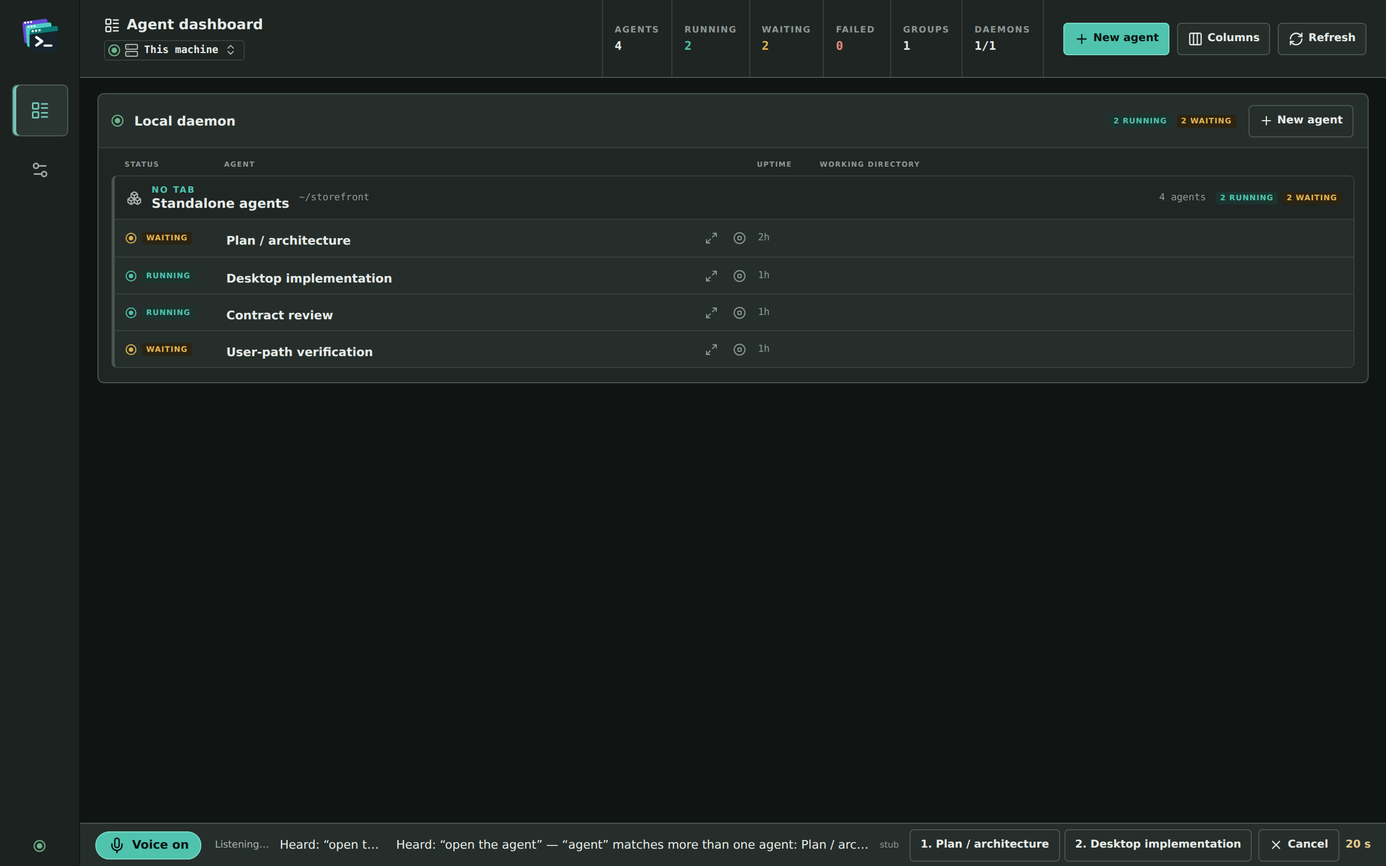
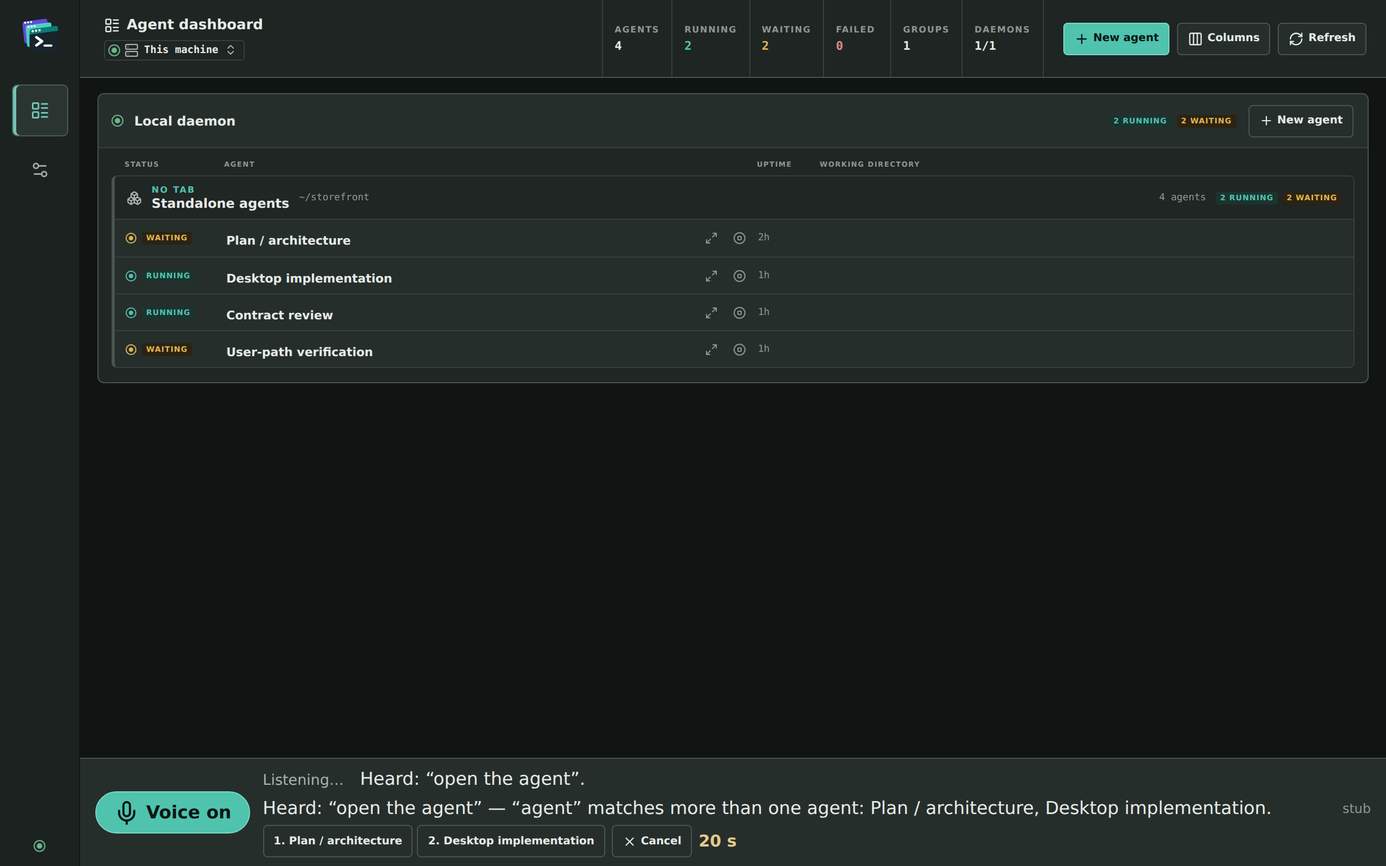
docs(voice): document the non-speech guard, larger row and send nudge
User docs say what the user now sees (noise is ignored, the row is
larger while voice is on, the send reminder in typing mode) and add a
troubleshooting row for speech taken as noise. Developer docs record the
whisper confidence guard and its measurements, the silent-outcome drop,
the measured-height reservation and the nudge. Changelog fragments and
PRD #1260's work log updated; the two voice screenshots regenerated.

Changed region(s): [[0.0312, 0.875, 1.0, 1.0]]

diff --git a/docs/develop/desktop-gui.md b/docs/develop/desktop-gui.md
@@ -1361,7 +1361,9 @@ Three things it is not, each stated because the unqualified version would be wro
 
 **The FLOOR was absolute until #802's second real-microphone report, and an absolute floor cannot work across devices.** `SPEECH_FLOOR` was an RMS of 600 out of `i16::MAX`, about -35 dBFS, picked from where near-field speech and room tone sit on a device whose gain nobody had measured. The owner supplied the falsification with a number: *"60 ms of speech inside the loudest 200 ms, where 120 ms is needed"* — the **density** branch, not the level one, so his peak did clear 600 while only 30% of his densest window did. In the loudest part of a word a correctly-set floor sees near-continuous energy; his saw a third. **Lowering the constant was the obvious repair and it is the wrong one**, because a microphone is a gain stage: 600 is too high for that device and too low for a hotter one, where room tone alone clears it, every frame reads as speech and the hallucinations this gate exists to stop come straight back. Any number fitted to one report is fitted to one microphone. So the rule is now **relative to the utterance's own noise floor** — `SpeechDetector` takes the room as the quietest 20 ms in the last `NOISE_WINDOW` (1 s, the standard minimum-statistics estimator, which works because every real signal visits its own floor while stationary noise simply sits there), and a frame counts as speech at `SPEECH_MARGIN` (3x, a little over 9 dB SNR) above it. The level cancels: the same voice on a quiet input and a loud one gets the same verdict, with nothing stored per device and no setup step, because a microphone always delivers its own room. **One absolute survives and it is deliberately not a speech threshold**: `SILENCE_RMS` (64, about -54 dBFS) floors the *room estimate*, not the frame, so the smallest bar a frame can face is `64 x 3` = 192. Flooring the frame instead would be a worse rule — a buffer holding a stretch of digital zero would have its room estimated at zero for a whole second, and ordinary room tone around 180 would read as speech for that second, which is precisely the near-silence a Whisper-family model answers with a training artefact. **A uniform buffer is refused, and that is the design rather than a gap**: a signal at one level for its whole length has a ratio of one between its loudest and quietest moments, so no relative rule can tell a held tone at speech level from a fan at speech level — the information is not in the buffer. Refusing is the safe direction and the physical one, since speech is modulated at the syllable rate and is never uniform. The visible consequence is that **every fixture in that module's tests carries room tone**, because a bare square wave is a signal no microphone produces; `voice_capture_a_low_gain_voice_passes_where_the_absolute_floor_refused_it` and `voice_capture_a_loud_room_is_refused_where_the_absolute_floor_admitted_it` are the pair that states the argument, each asserting first that the old absolute rule got it wrong and then that this one gets it right.
 
-**The refusal is its own outcome and it now carries the whole measurement.** `TranscriptionOutcome::Silent` is a fourth kind beside `heard`, `not_configured` and `failed`, and it used to carry no `detail` "because there is nothing to diagnose" — which was true of the quiet-room case it was written for and false of the one that mattered. A user who *did* speak reads that row, so it has to separate the three things it can mean, and it branches on whether **any** frame counted as speech. If none did, nothing in the buffer would have passed at any length — *Too quiet to transcribe — the loudest moment reached 410 against a room at 180, where speech has to reach 540. Move closer or turn the input up; still listening.* If some did and `voiced` is still short, the audio was speech and there was not enough of it — *I did not hear enough to transcribe — 60 ms of speech inside the loudest 200 ms, where 120 ms is needed; the loudest moment reached 820 against a room at 95, where speech has to reach 285. Say that again; still listening.* Neither reads as a failure and neither blames the device, which is the rule that has not changed. **Both branches now carry all three numbers, and the density one did not**: PRD #802's owner hit exactly that branch, got a duration and no level, and the fact that mattered most — that his peak cleared the old absolute floor while two thirds of his densest window did not — was not in the sentence. Learning it cost a round trip to the person holding the microphone, and it is what falsified the constant. So every refusal now states the comparison the rule made, in the rule's own terms, and **that is also the field diagnostic**: one utterance says whether the input is quiet, the room is loud, or the gate is strict, which is the only calibration available to a rule no tier in this repository can open a device to check.
+**The refusal is its own outcome; its measurement is in `detail`, and no surface shows it while listening.** `TranscriptionOutcome::Silent` is a fourth kind beside `heard`, `not_configured` and `failed`. It branches on whether **any** frame counted as speech: if none did, nothing in the buffer would have passed at any length (`detail`: *too quiet — the loudest moment reached 410 against a room at 180, where speech has to reach 540*); if some did and `voiced` is still short, there was not enough of it (*only 60 ms of speech inside the loudest 200 ms, where 120 ms is needed — the loudest moment reached 820 against a room at 95, where speech has to reach 285*). **Both details carry all three numbers** — the loudest moment, the room it was judged against and the bar that produced — because PRD #802's owner once hit the density branch, got a duration and no level, and the fact that falsified the old absolute floor (his peak cleared it while two thirds of his densest window did not) cost a round trip to learn. That is still the field diagnostic for a rule no tier here can open a device to check, and it is read from the `detail` of the `desktop_voice_stop` reply (the webview's devtools show it), not from the screen. **The numbers used to be in the sentence too, and PR #1451's hand test took them out.** With voice on, the user typed on the keyboard; every burst of keys ended a segment, and each one put *"I did not hear enough to transcribe — 60 ms of speech inside the loudest 200 ms, where 120 ms is needed; the loudest moment reached 858 against a room at 64, where speech has to reach 192. Say that again; still listening."* over the report they were reading. So `VoiceControlPanel`'s `takeUtterance` now drops a `silent` outcome **without a word** — no sentence, and the last report stays, because `forget()` runs only once a segment with words in it arrives — and a recording that ran to the 30 s cap with `CaptureStatus::speech` false is cancelled quietly rather than reported as *ran to the 30 s limit* (`discardCapped(true)`). The `sentence` is now plain words for any surface that does report one — `NOTHING_HEARD` (*I could not make out any words. Say that again; still listening.*) and `TOO_QUIET` — and none is shown today: there is no press-to-talk activation in the app, which is where a user who meant to speak would want to hear it. The cost is the case the numbers were added for: a quiet speaker whose words the gate refuses now sees nothing happen, and the user docs' troubleshooting table names that symptom. Neither sentence reads as a failure or blames the device, which is the rule that has not changed.
+
+**The model's own no-speech verdict is a second check, after the gate** (PR #1451). The audio gate is a level-and-density heuristic, and non-speech clears it: measured on 2026-10-01, thirty seconds of synthetic typing reaches the 120 ms density once and passes, and so does a quiet room with one 250 ms burst in it. Whatever came back was then trusted whole, which is how the maintainer, in typing mode on whisper-1, got *"Go to Beadaholique.com for all of your beading supply needs! Thank you."* typed into an agent's prompt — the known Whisper artefact on non-speech. So a whisper-family model (any model id containing `whisper`: `whisper-1`, the local `faster-whisper` builds) is asked for `response_format=verbose_json` (`response_format_for`), and `parse_response` drops every segment whose `no_speech_prob` exceeds `NO_SPEECH_LIMIT` (0.6, openai/whisper's own default `no_speech_threshold`); when none is dropped `text` is taken verbatim, so speech reaches the pipeline byte for byte as before. Then `handle_audio` treats a transcript with no letter or digit left — empty, or whisper's `... ...` — as `Silent`, not `Heard`. **The reference rule's other half is deliberately not used**: openai/whisper keeps a no-speech segment when `avg_logprob > -1.0`, and whisper-1's reply to the quiet room with a burst was `no_speech_prob` 0.918 with `avg_logprob` -0.515, so the combined rule keeps the artefact. **What the 0.6 is measured against** (real calls, 2026-10-01): non-speech scored 0.918–0.976 on whisper-1 and 0.896 on `faster-whisper-tiny.en`; speech at a peak of 400 and 250 against a room at 64 — the quiet end of what the gate passes — scored 0.089–0.202 on whisper-1 and 0.166–0.377 on the local model, and was heard word for word end to end through `HttpTranscriber`. That speech was synthesised (OpenAI TTS, attenuated, room tone added); **a real quiet speaker on a real microphone is the unmeasured case**, and the margin to 0.6 is what is betting on it. Other models get plain `json`, because OpenAI's `gpt-4o-transcribe` family refuses `verbose_json` with a 400, and they get no segment guard — only the no-words check. **Not changed, and why:** the audio gate was not tightened against impulsive noise. A per-frame crest-factor test would separate a synthetic click from a synthetic vowel, but nothing here can measure it against a real keyboard through a real microphone, and plosives make real speech impulsive too, so it would risk refusing quiet commands for a case the model's verdict already covers. No list of known artefact phrases exists, for `MIN_SPEECH`'s reason. **Known gap:** the local speech container (`speaches 0.9.0-rc.3`) answers a long segment of pure non-speech with a `500`, which renders as *Could not turn that into text*; that predates this change, happens with plain `json` too, and affects only a non-speech segment that cleared the gate on the local backend.
 
 **Releasing the device is blocking work and is done off the lock.** `AudioStream::drop` joins the device thread, so it is as slow as the platform's teardown. All three paths that release one — `stop`, `cancel` and the length cap's substitution — move the stream out from under the session mutex and drop it after the guard, and all three Tauri commands hand the call to `spawn_blocking`, the treatment the device *open* already had. Holding the mutex across a driver teardown parked every concurrent `status`, `cancel` and `start` behind it, and doing it on a runtime task parked a worker as well. The same rule covers the keychain, which is why `secrets::load_off_runtime` exists: `SecretStore::load` may put an unlock prompt on screen, and both voice backends read it from inside an `async fn`.
 
@@ -1501,6 +1503,8 @@ They live in `voice/dictation.rs`, ahead of the resolver, and linkage-check rule
 **Leaving the mode is reported in the panel's own sentence** (`dictationStopped`, `dictationRefused`, `VOICE_NOT_DICTATING`), not the row's `report`, because only the panel knows whose prompt it was typing to — Rust keeps no memory between utterances. Those join the frontend-written sentences listed under *It renders sentences; it never composes one* below, for the countdown's reason.
 
 **The 30-second cap types rather than discards while the mode is on** (`VOICE_CAP_TYPED`). `VOICE_CAP_DISCARDED`'s reasoning is about a one-to-four-word command; a dictated paragraph is not one, and throwing away 30 seconds of it is the worst outcome available. The cost is one Speech call per 30 s of continuous speech, spent on the user's own words.
+
+**After a pause with words unsent, the send instruction is highlighted** (PR #1451; `VOICE_SEND_NUDGE_MS`, 4 s). The hand test found users dictating, falling silent and waiting for something to happen; an automatic send was ruled out, so this is a nudge and never sends. The typed write's success sets `unsent` and starts the clock; the poll takes the highlight down whenever `CaptureStatus::speech` is true and restarts the clock in a later recording where it is false (so it returns after a pause that followed speech which typed nothing); `submitAgentPrompt` (*send it*), a capture-phase `Enter` on the window (the user's own send, which lands in the terminal first) and every entry to or exit from the mode clear it for good. Four seconds is longer than the gap between two dictated sentences — the 800 ms `SILENCE_HOLD`, about a second to transcribe and type, then the next sentence starting — and short enough to be noticed by someone waiting. It is styling on the existing words (`.voice-send-hint[data-nudge="on"]`), so the status reads exactly the same lit or not, and the pulse runs twice and honours `prefers-reduced-motion`.
 
 **Not built: an overlapped capture cycle.** The cycle is still serial — the microphone closes while the last segment is transcribed — so words said in that gap are not captured, and in a mode that is a gap in the middle of a prompt. PRD #1260's M1 was to measure that loss before deciding whether to reopen the microphone during transcription; **it was not measured**, because the unit that built the mode had no microphone, so the overlapped cycle was deferred and the measurement is the manual walk's item 12b below. Silence artefacts typed into the prompt belong to the same walk: in `Idle` a Whisper-family artefact on near-silence usually becomes a no-match, while in the mode it is typed — visibly and unsent, so recoverable, but a new consequence for an existing weakness.
 
@@ -1696,7 +1700,9 @@ That sentence used to be written one quantifier wider — *every unknown resolve
 
 **The voice surface is a PEER of the agent pane, not background, and it took an exemption in the modal fence to make that true.** M6 shipped with the opposite: while a pane is open `useInertBackground` marked every element that is not one of its ancestors `inert`, and the voice surface is the screen's sibling, so it was marked with the rest of the background. `inert` removes an element from hit testing as well as from the tab order, so the trigger was not merely untabbable but unclickable — measured in the browser tier, where the click was intercepted by the pane's own footer — and `close_agent_view` — the row that then owned "close this" on the agent screen, and the only one whose `screens` column was `["agent"]` — could not be spoken in a shipped build. (That row has since folded into `close`, which is callable everywhere; what the exemption now keeps reachable on that screen is the whole dictation pair as well.) The second of the two fixes named here was taken: the hook now skips elements carrying `VOICE_PEER_PROPS`, which the trigger and its report spread, and nothing else. It is an allow-list of one marker rather than a rule about roles or dialogs, so a second peer has to be exempted there deliberately. **The exempt elements are no longer a dialog and the exemption did not widen when they stopped being one** — nor when the surface became a reserved row and the count went from two marked elements to **one**. That is the exemption narrowing rather than moving: the row is one marked sibling holding the trigger and the report, so the walk skips the same subtree it skipped before, and the Undo inside the report is still exempt because it is a control. What the fence still guarantees is unchanged for everything else, the `DeckSelector` above all, and `AgentPaneDeckIdentity.test.tsx` states it as an equality against that one trigger rather than as an emptiness — so any *other* control escaping an open pane is still a failure.
 
-**The surface is ONE RESERVED ROW at the bottom of the window, and that is a layout decision the product owner made after driving the real app.** Until PR #1163's review round the trigger and the report were two independently fixed boxes at z-index 90, the report stacked above the button and growing upward as it filled — so it was drawn over whatever was beneath it, including over the enlarged agent pane, which is the one place the user is actually working. Moving the boxes buys a different collision rather than none: a floating box's height is its content's, and no other element can set room aside for something whose size it cannot know. A row can. `--voice-row-height` (40px) is the contract, and every surface that would otherwise reach the window's bottom edge subtracts it — `.deck-main` on both screens, `.agent-pane-overlay`, `.reader-overlay`, `.evidence-drawer` and `.toast`, each marked *voice row* at its own rule. The row is z-index **95**: above the agent pane (90) and the reader overlay (80), below `.dialog-backdrop` (100). Two exclusions are deliberate rather than missed. A **modal dialog or sheet still covers the row**, which is correct — the voice surface is not exempted from `useInertBackground` for those the way it is for the agent pane, and shrinking their backdrops would leave a control clickable underneath a window-covering modal. And the **rail** is not on the list because it never overlaps: at desktop widths the row starts at the rail's right edge, and at `max-width: 680px`, where the rail becomes a 54px bottom bar, `--bottom-rail-height` lifts the row onto it. The agent pane keeps `inset: 0` — a modal scrim should cover the window — and it is its *content* box that stops above the row, via `padding-bottom`. The row's last report **persists** until the next utterance replaces it, which is now a decision rather than something inherited from the floating card: the space is reserved whether or not it holds anything, the pipeline goes straight back to listening, and a sentence that faded on a timer would be gone before a user who glanced away came back. `voice-control.spec.ts` asserts the geometry in both engines, including `elementFromPoint` at the row's own centre — a box comparison proves the pane's content stops above the row, and only a hit test proves a click there reaches the row rather than the scrim.
+**The surface is ONE RESERVED ROW at the bottom of the window, and that is a layout decision the product owner made after driving the real app.** Until PR #1163's review round the trigger and the report were two independently fixed boxes at z-index 90, the report stacked above the button and growing upward as it filled — so it was drawn over whatever was beneath it, including over the enlarged agent pane, which is the one place the user is actually working. Moving the boxes buys a different collision rather than none: a floating box's height is its content's, and no other element can set room aside for something whose size it cannot know. A row can. `--voice-row-height` (40px at rest) is the contract, and every surface that would otherwise reach the window's bottom edge subtracts it — `.deck-main` on both screens, `.agent-pane-overlay`, `.reader-overlay`, `.evidence-drawer` and `.toast`, each marked *voice row* at its own rule. The row is z-index **95**: above the agent pane (90) and the reader overlay (80), below `.dialog-backdrop` (100). Two exclusions are deliberate rather than missed. A **modal dialog or sheet still covers the row**, which is correct — the voice surface is not exempted from `useInertBackground` for those the way it is for the agent pane, and shrinking their backdrops would leave a control clickable underneath a window-covering modal. And the **rail** is not on the list because it never overlaps: at desktop widths the row starts at the rail's right edge, and at `max-width: 680px`, where the rail becomes a 54px bottom bar, `--bottom-rail-height` lifts the row onto it. The agent pane keeps `inset: 0` — a modal scrim should cover the window — and it is its *content* box that stops above the row, via `padding-bottom`. The row's last report **persists** until the next utterance replaces it, which is now a decision rather than something inherited from the floating card: the space is reserved whether or not it holds anything, the pipeline goes straight back to listening, and a sentence that faded on a timer would be gone before a user who glanced away came back. `voice-control.spec.ts` asserts the geometry in both engines, including `elementFromPoint` at the row's own centre — a box comparison proves the pane's content stops above the row, and only a hit test proves a click there reaches the row rather than the scrim.
+
+**While voice is on, the row is half as large again and wraps** (PR #1451, so it can be read from the keyboard). `.voice-row[data-voice="on"]` sets every size in the row to 1.5× its resting value — the report's 11px to 16.5px, the trigger's label the same — with a least height of `--voice-row-height-on` (60px), and turns elision off: at a narrow window the larger text would otherwise lose most of a sentence to the ellipsis. That makes the row's height its content's, which is the exact property the reservation was built to avoid, so the contract moves with it rather than breaking: while voice is on, `VoiceControlPanel` measures the row in a layout effect and with a `ResizeObserver`, writes the height into `--voice-row-height` on the document root (which is also where `--voice-reserved` is computed, so both follow), and removes the inline value when voice turns off, back to the stylesheet's 40px. No surface had to change. `voice-control.spec.ts` asserts the 1.5× sizes and the reservation tracking the measured height, and, at a 420px-wide window in typing mode, that the status wraps onto more lines, is not clipped, stays inside the row, and that the enlarged agent still stops above the taller row; `voice-commands.spec.ts`'s empty-state check now pins the hint to one line of the *on* height rather than the resting one.
 
 **The `aria-modal` question went away with the dialog rather than being answered.** The exemption had made the voice dialog's own `aria-modal="true"` a false claim — a dialog that deliberately coexists with another interactive dialog, and that inerts nothing itself, is not modal in the ARIA sense — and the correction at the time was to state `aria-modal="false"` and trap no focus. There is now no dialog at all: a button and a `role="status"` live region, which claim no modality, take no focus and trap none, so nothing has to be stated. The live region is mounted before any sentence arrives, which is what makes the announcement reliable, and the card inside it is what appears and disappears. The agent pane's own `aria-modal="true"` is untouched: it genuinely inerts everything but one named peer, which is the ordinary shape of a modal with a status region beside it.
 
@@ -1917,7 +1923,7 @@ The three tiers between them drive the surface in jsdom, the surface in two real
     Finally the escape that matters most: dictate a sentence and press the **Voice button** during the countdown — the send must be called off with the text left in the prompt. That is the one step of this walk that checks the feature is recoverable rather than merely working. And say `type run the tests` once from the **deck**, with no pane open, to confirm you get *typing to an agent needs that agent's pane open* rather than words going somewhere you cannot see.
 12b. **The typing mode against a live agent (PRD #1260), which no automated tier reaches** — no tier has a microphone or a transcript-injection seam. Pick an agent whose pane **accepts input**, open it, and say `type on`. Confirm **Typing to** *agent* appears in two places — on the pane's top edge and beside the Voice button, with *Say “type off” to stop, “send it” to send.* — and a **Stop typing** button in the voice row. Dictate three sentences as separate utterances and confirm each lands **whole** in the prompt (a sentence starting with `type fix the bug` types all four words), in order, and **nothing is sent**: no countdown appears. Say `send it` and confirm the prompt is submitted at once and the row says typing is still on; dictate a second prompt the same way.
 
-    Then the two measurements PRD #1260's M1 left UNVERIFIED, which decide whether the overlapped capture cycle is built. **A long pause:** dictate a sentence, pause for two or three seconds mid-thought, carry on, and compare what landed with what you said — **record every word lost** between the two segments, against both the local and the hosted Speech backends. Then stay silent for ten seconds with the mode on and **record anything typed** that you did not say (a transcription artefact). **Thirty seconds of continuous speech:** read a paragraph aloud with no pause; at 30 s the report must say it ran to the limit **and the text must be typed**, not discarded; note what, if anything, was lost across the cut. Put the numbers in PRD #1260's Work Log.
+    Then the two measurements PRD #1260's M1 left UNVERIFIED, which decide whether the overlapped capture cycle is built. **A long pause:** dictate a sentence, pause for two or three seconds mid-thought, carry on, and compare what landed with what you said — **record every word lost** between the two segments, against both the local and the hosted Speech backends. Then stay silent for ten seconds with the mode on and **record anything typed** that you did not say (a transcription artefact); then type on the keyboard for ten seconds without speaking, and confirm nothing is typed by voice, no *Heard …* appears and the row's last report does not change (PR #1451). Dictate one sentence and say nothing: after four seconds *“send it” to send* must be highlighted and nothing sent; speak again and the highlight must go. With voice on, the row must be visibly larger than with voice off, and at a narrow window its text must wrap rather than be cut off. **Thirty seconds of continuous speech:** read a paragraph aloud with no pause; at 30 s the report must say it ran to the limit **and the text must be typed**, not discarded; note what, if anything, was lost across the cut. Put the numbers in PRD #1260's Work Log.
 
     Then the exits, each of which must send nothing and say why: say `type off`; enter again and say `voice off` (the microphone closes too); enter again and press **Stop typing** — and once by **Tab** to it, since the pane is modal; enter again and press the Voice button; enter again and press **Escape** to close the pane; enter again and open another agent from the dashboard (the mode must **not** follow). Finally, with the mode on, say `we should stop typing the logs to a file` and confirm it is **typed**, not an exit. Say `type on` on a pane the app shows as read-only, or on a finished agent, and confirm it is **refused with the reason** and no **Typing to** appears.
 12a. **`close`, which is the row you can only check by hand.** Say `what can I say?`, then say `close this`, and confirm the list goes — that is the defect the row exists for, and before it the overlay could only be dismissed by a click or Escape. Then with an agent's pane open and **no** overlay up, say `close this` and confirm the pane closes. Then say it on the bare deck and confirm the row says *Nothing to close* rather than claiming a close. On the overview, open **New agent** and say `close this`: the dialog closes. Open it again, start an agent against a deck slow enough to watch, and say `close this` while it reads **Starting…**: the dialog stays and the report says it is waiting for the deck to answer. Finally, with the pane open, say a bare `go back` and confirm it closes the pane rather than trying to reach the deck — that claim is scoped by the word *bare* in two descriptions and the model tells the two rows apart only by which is `callable`.

diff --git a/prds/done/1260-voice-sticky-dictation-mode.md b/prds/done/1260-voice-sticky-dictation-mode.md
@@ -259,3 +259,14 @@ Everything but M1 is built and shipped in the PR that closes #1260. M1 (word los
 - **`start-new-agent-adversarial-no-confirm` missed 7 of 20 runs on this branch** (tester), 7 of 20 again here (6× `stop_agent` with no agent, 1× `none`), against **2 of 20 on `main`** (both `stop_agent`) — measured on an export of `origin/main`'s tree with only the harness's fixture filter ported, so the voice code and prompt were `main`'s. So the weakness predates the branch and its prompt changes made it worse. Every miss was refused by action grounding, so nothing unsafe ran; it was a start the user asked for that did not happen. **Cause:** the model was told `stop_agent` and `close_orchestration` were `callable: true` with the New agent dialog open, though the dialog is modal and the overview has always refused both dispatches there (`STOP_BEHIND_NEW_AGENT`). **Fix:** both rows now carry `requires = ["new_agent_dialog_closed"]`, so the table says what the screen already does and the schema's callable tie-break sends the start-worded request to the start; their hints say the dialog must be closed. D5 and grounding are untouched: each stop still only opens a confirmation, and `start_new_agent`'s grounding still needs a start word. After: **20 of 20**. The fixture's expectation was right and is unchanged. Unit test: `voice_outcome_stops_cannot_run_behind_the_new_agent_dialog`.
 - **`switch-deck-ambiguous-box` then went red in a full run: 8 of 20 on this branch, 19 of 20 on `main`.** For "switch deck to the box" beside `deploy@build-box` and `ci@stale-box`, the model answered `deploy@build-box` — the full label again, as in `switch-deck-build-box` (9ee74b20) — and because "box" names two decks, not one, that fix's exception did not apply and the switch was refused as "I did not catch which daemon". **Fix:** `switch_target`'s rule 3 now answers such a value, when it resolves to one deck inside a tie the transcript's own words make, with that tie, quoting the user's words (`Unmet::AmbiguousAsSaid`, `tie_named_with`) — the outcome the model echoing "the box" already produced, and a choice that switches nothing until the user picks. A label outside the user's tie, or for a transcript naming no deck, is still refused. After: **20 of 20**. Unit test: `voice_outcome_switch_deck_asks_the_users_tie_for_a_completed_label`.
 - **Full credentialed manifest after both: 149/149 twice.**
+
+### 2026-10-01 — Maintainer's hand test of PR #1451: four fixes
+
+The maintainer tested the branch by hand with Speech on OpenAI `whisper-1` and reported phantom text in typing mode and a noisy status. Each fix below was written test-first: a test failing for the reported reason, the fix, the same test green, then each change reverted one at a time to confirm it is load-bearing.
+
+- **Phantom text.** After the opener and silence, the agent's prompt received *"Go to Beadaholique.com for all of your beading supply needs! Thank you."* — a Whisper artefact on non-speech. **Cause:** typing mode applies the same gate per segment as one-shot utterances (every segment goes through `handle_audio`), but the gate is a level-and-density heuristic that non-speech can clear — measured, 30 s of synthetic typing and a quiet room with one 250 ms burst both pass — and whatever the model then answered was trusted whole. **Fix:** whisper-family models are asked for `verbose_json`; segments with `no_speech_prob` over 0.6 are dropped, and a transcript with no letter or digit left is `Silent`, not `Heard`. Measured with real calls: non-speech 0.896–0.976, quiet synthesised speech 0.089–0.377. whisper-1's `avg_logprob` on the artefact was −0.515, so openai/whisper's combined rule (which keeps a segment above −1.0) would have kept it; the guard uses `no_speech_prob` alone. The audio gate was not tightened: an impulse-rejection rule could not be measured against a real keyboard here and would risk refusing quiet plosive-heavy speech. No phrase blocklist. Tests: `voice_transcribe_text_whisper_itself_marks_as_no_speech_is_never_heard`, `voice_transcribe_the_measured_whisper_reply_to_a_quiet_room_is_not_heard`, `voice_transcribe_quiet_real_speech_is_still_heard`, `voice_transcribe_keeps_the_speech_and_drops_a_trailing_no_speech_segment`, `voice_transcribe_asks_a_whisper_model_for_its_confidence`. Real calls made: 8 to whisper-1 transcription (5 measurements, 3 end-to-end through `HttpTranscriber` after the fix, where the typing and burst audio came back silent and the quietest speech was heard word for word) and 1 to OpenAI TTS to synthesise the speech; the Beadaholique string itself was not reproduced, since it needs real non-speech audio.
+- **No noise in the status.** While the maintainer typed on the keyboard, the status kept showing "Heard …" and *"I did not hear enough to transcribe — 60 ms of speech inside the loudest 200 ms …"*. **Fix:** the webview drops a `silent` segment without a word and leaves the last report in place; a 30 s recording nobody spoke in is cancelled quietly; the refusal sentence is plain words (`NOTHING_HEARD`, `TOO_QUIET`) and the measurement lives only in `detail`. Tests: "says nothing about a segment with no speech in it", "drops a capped recording nobody spoke in without a word" (`VoiceControlPanel.test.tsx`).
+- **Larger voice status while voice is on.** The row and its text are 1.5× (row at least 60px, text 16.5px) and wrap instead of eliding; the row's measured height is written into `--voice-row-height` so every surface still keeps clear of it; off, it returns to 40px. Wording unchanged. Tests: two specs in `e2e/voice-control.spec.ts` (sizes and reservation; wrapping at a 420px window in typing mode), on Chromium and WebKit.
+- **A nudge to send after a pause in typing mode.** With dictated words unsent and 4 s of silence (`VOICE_SEND_NUDGE_MS`), the "“send it” to send" words are highlighted. It never sends; speaking clears it (it returns after the next pause), and "send it", the user's Enter and leaving the mode clear it for good. Tests: "highlights how to send after a pause with dictated text unsent, and never sends" (`VoiceControlCommands.test.tsx`) and "highlights how to send after a pause in typing mode" (`e2e/voice-control.spec.ts`).
+
+Not verifiable without a real microphone, and left to the maintainer's retest (`docs/develop/desktop-gui.md` step 12b): that real keyboard noise and real silence produce no text and no status message, that a real quiet speaker is not refused by the 0.6 limit, and how the nudge feels in use.

diff --git a/docs/desktop/voice.md b/docs/desktop/voice.md
@@ -25,7 +25,9 @@ To avoid the Docker step, choose **OpenAI — needs an OpenAI API key** under **
 
 ## Using it
 
-What the app did with each thing you said appears beside the Voice button and stays until the next one. When a command can be reversed, an **Undo** button is shown beside it for ten seconds.
+What the app did with each thing you said appears beside the Voice button and stays until the next one. When a command can be reversed, an **Undo** button is shown beside it for ten seconds. While voice is on, that row at the bottom of the window is larger, so you can read it from where you sit, and a long message wraps onto more lines instead of being cut off; it returns to its usual size when you turn voice off.
+
+Sounds that are not speech, such as typing on the keyboard, a cough or noise in the room, are ignored: nothing is typed or run for them, and what is shown beside the Voice button stays as it was.
 
 What you can do by voice, by screen:
 
@@ -50,7 +52,7 @@ Nothing is typed, and the app says why, if a confirmation is open, or if the pan
 
 If what you said names more than one thing on screen, for example "open the agent" with several agents on the dashboard, the app does not guess. It lists the matches as numbered buttons beside the Voice button, with a **Cancel** button and a countdown, and waits for you to choose:
 
-![The agent dashboard with voice on and "open the agent" heard: beside the Voice button, the sentence saying "agent" matches more than one agent, then the numbered buttons 1. Plan / architecture and 2. Desktop implementation, a Cancel button and a 20 s countdown](/img/voice-choice-desktop.png)
+![The agent dashboard with voice on and "open the agent" heard: beside the Voice button, the sentence saying "agent" matches more than one agent, and under it the numbered buttons 1. Plan / architecture and 2. Desktop implementation, a Cancel button and a 20 s countdown](/img/voice-choice-desktop.png)
 
 - **Say the number**: "two", "2", "number two", "option two", "the second one" or "the last one", on its own.
 - **Say the name** of one of the listed entries on its own, such as "Desktop implementation". A sentence that only contains a listed name, such as "stop Planner", is not an answer: the list closes and that sentence runs as a new command.
@@ -78,6 +80,7 @@ While typing mode is on:
 
 - **Typing to** *agent* is shown at the top of the agent's pane and beside the Voice button, with a reminder of what to say to stop and to send, and a **Stop typing** button.
 - Nothing is sent to the agent until you say "send it" (or "send", "submit", "enter", "press enter", "go ahead", "finished", "end") on its own, or press `Enter` yourself. After a send, typing mode stays on, so you can dictate the next prompt the same way.
+- If you stop talking for four seconds with words typed but not yet sent, “send it” to send is highlighted as a reminder. It never sends anything itself; the highlight goes away when you speak again, send, or stop typing.
 - Only a handful of things you can say still act as commands, and only when you say them on their own: "type off" (or "typing off", "stop typing", "dictation off", "stop dictation", "done typing"), the send phrases above, and "voice off" (or "mute", "mic off", "stop listening", "stop voice"). Said inside a longer sentence, such as "tell the reviewer to send it when the tests pass", they are typed like anything else. Other commands, such as opening a screen, do not work until you stop typing.
 - If you speak for 30 seconds without a pause, what you said is still typed, and the app tells you it reached the limit.
 
@@ -143,5 +146,6 @@ What went wrong is shown beside the Voice button.
 | Commands that name agents or directories never work | **Names** is set to **Withheld**. | Set it to **Shared**, or use the screen instead. |
 | A command runs nothing and says the agent, daemon, screen or list changed | What it was about changed while the app was working out what you said, or after a numbered list appeared. | Say the command again. |
 | "type off" was typed into the prompt instead of stopping typing mode | The app misheard it. | Nothing was sent: press **Stop typing** and delete the words. |
+| You said something and nothing happened, with nothing shown | The app took it for noise rather than speech, usually because it was very short or quiet. | Say it again a little louder or closer to the microphone. |
 | Answers are cut off or not understood with a reasoning model | **Max tokens** is too low for its reasoning. | Raise **Max tokens**. |
 | "no microphone was found on this machine", or "the microphone would not open (…)" | No input device, or the app may not use it. | Connect a microphone and check it is the system's input device; on macOS, allow the app under System Settings → Privacy & Security → Microphone. Then press **Voice** again. |

diff --git a/changelog.d/1260.bugfix.md b/changelog.d/1260.bugfix.md
@@ -4,6 +4,8 @@ With the New agent dialog open, naming a daemon the older way, as in "use the bu
 
 A prompt dictated with "type …" and waiting on its send countdown is now called off, not sent, if you close the pane, open another screen or agent, switch daemons, or a confirmation opens before the countdown ends; the words stay in the agent's prompt and the app says the send was called off. Nothing is typed at all if a confirmation is open, on the dashboard or on the deck screen, or if you opened another agent's pane while the app was still working out what you said. A spoken command that names an agent, such as "stop the planner", no longer opens a stop confirmation for a different agent when you switch daemons, or that agent is replaced by a new one under the same name, while the app is still working out what you said; it runs nothing and says why.
 
+Sounds that are not speech, such as typing on the keyboard, a cough or a quiet room, no longer turn into text: with the OpenAI speech option they could come back as a sentence nobody said, such as "Go to Beadaholique.com for all of your beading supply needs!", which was then typed into an agent's prompt in typing mode. The app now discards anything the speech service itself judges not to be speech. While you are not speaking, the voice row also stays quiet: it no longer shows "Heard …" for noise or a message about not hearing enough, and what it last reported stays on screen.
+
 Spoken commands and dictated text are now always transcribed as English. The speech service used to guess the language of every utterance, so a short command said with an accent could come back with words from another language and be refused; "select the directory billing" spoken with a Serbian accent was heard as "Selectajte directory billing".
 
 Saying "okay, send it please" with no agent's pane open now always says that sending needs an agent's pane open, where it sometimes answered that nothing matched. See [Voice Control](https://agent-deck.devopstoolkit.ai/docs/desktop/voice).

diff --git a/changelog.d/1260.feature.md b/changelog.d/1260.feature.md
@@ -4,4 +4,8 @@ Dictating a longer prompt to an agent no longer needs "type" at the start of eve
 
 Nothing is sent to the agent until you say "send it" on its own or press Enter, and typing mode stays on after a send so you can dictate the next prompt the same way. Only "type off", the send phrases and "voice off" still act as commands while typing, and only when said on their own: said inside a longer sentence they are typed like any other words. Typing mode also ends, sending nothing, when you press **Stop typing** or the Voice button, close the pane, open another screen or agent, switch daemons, or the agent stops accepting input or is replaced by a new one in the same pane, and the app says why; something you said just before it ended that was still being worked out is not typed, though words already handed to the agent can still appear, unsent. It is refused, with the reason, on an agent that cannot take input. While it is on, nothing you say is sent to the Commands service, and a stretch of more than 30 seconds without a pause is typed rather than thrown away.
 
+If you stop talking for four seconds with words typed but not yet sent, “send it” to send is highlighted as a reminder; nothing is ever sent without you saying it or pressing Enter.
+
+While voice is on, the voice row at the bottom of the window is larger, so what it says can be read at a glance, and a long message wraps onto more lines instead of being cut off. It returns to its usual size when voice is off.
+
 A bare "type on" or "type off" now always switches typing mode; say "type the word on" to type that word. See [Voice Control](https://agent-deck.devopstoolkit.ai/docs/desktop/voice#typing-mode).
